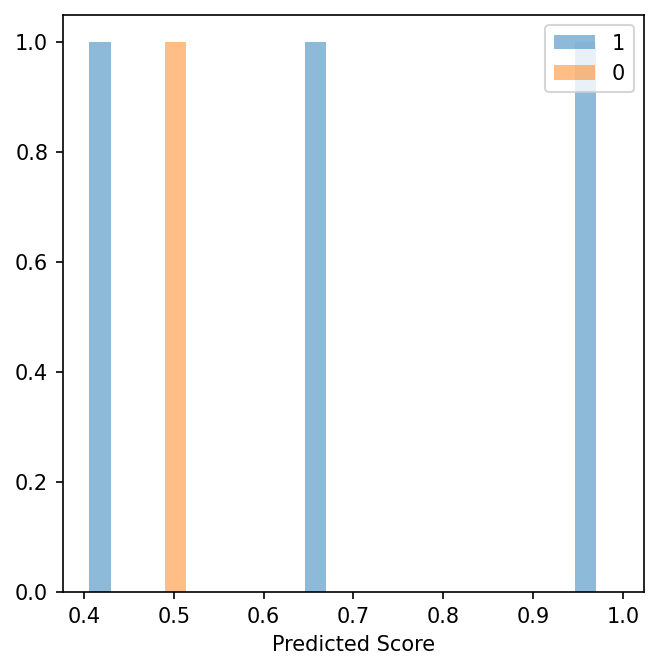
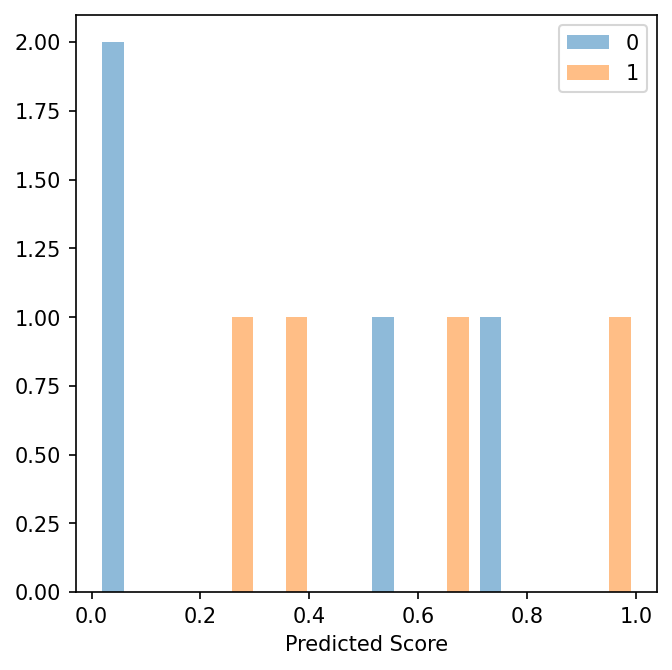
changes from IE-DL

diff --git a/hi-ml-histopathology/src/histopathology/models/deepmil.py b/hi-ml-histopathology/src/histopathology/models/deepmil.py
@@ -13,7 +13,7 @@ import matplotlib.pyplot as plt
 import more_itertools as mi
 
 from pytorch_lightning import LightningModule
-from torch import Tensor, argmax, mode, nn, no_grad, optim, round
+from torch import Tensor, argmax, mode, nn, set_grad_enabled, optim, round
 from torchmetrics import AUROC, F1, Accuracy, Precision, Recall, ConfusionMatrix
 
 from health_azure.utils import is_global_rank_zero
@@ -29,7 +29,7 @@ from histopathology.utils.viz_utils import load_image_dict
 
 
 RESULTS_COLS = [ResultsKey.SLIDE_ID, ResultsKey.TILE_ID, ResultsKey.IMAGE_PATH, ResultsKey.PROB,
-                ResultsKey.PRED_LABEL, ResultsKey.TRUE_LABEL, ResultsKey.BAG_ATTN]
+                ResultsKey.CLASS_PROBS, ResultsKey.PRED_LABEL, ResultsKey.TRUE_LABEL, ResultsKey.BAG_ATTN]
 
 
 def _format_cuda_memory_stats() -> str:
@@ -48,6 +48,7 @@ class DeepMILModule(LightningModule):
                  pooling_layer: Callable[[int, int, int], nn.Module],
                  pool_hidden_dim: int = 128,
                  pool_out_dim: int = 1,
+                 dropout_rate: Optional[float] = None,
                  class_weights: Optional[Tensor] = None,
                  l_rate: float = 5e-4,
                  weight_decay: float = 1e-4,
@@ -56,7 +57,8 @@ class DeepMILModule(LightningModule):
                  slide_dataset: SlidesDataset = None,
                  tile_size: int = 224,
                  level: int = 1,
-                 class_names: Optional[List[str]] = None) -> None:
+                 class_names: Optional[List[str]] = None,
+                 is_finetune: bool = False) -> None:
         """
         :param label_column: Label key for input batch dictionary.
         :param n_classes: Number of output classes for MIL prediction. For binary classification, n_classes
@@ -67,6 +69,7 @@ class DeepMILModule(LightningModule):
         `torch.nn.Module` constructor accepting input, hidden, and output pooling `int` dimensions.
         :param pool_hidden_dim: Hidden dimension of pooling layer (default=128).
         :param pool_out_dim: Output dimension of pooling layer (default=1).
+        :param dropout_rate: Rate of pre-classifier dropout (0-1). `None` for no dropout (default).
         :param class_weights: Tensor containing class weights (default=None).
         :param l_rate: Optimiser learning rate.
         :param weight_decay: Weight decay parameter for L2 regularisation.
@@ -76,6 +79,7 @@ class DeepMILModule(LightningModule):
         :param tile_size: The size of each tile (default=224).
         :param level: The downsampling level (e.g. 0, 1, 2) of the tiles if available (default=1).
         :param class_names: The names of the classes if available (default=None).
+        :param is_finetune: Boolean value to enable/disable finetuning (default=False).
         """
         super().__init__()
 
@@ -85,6 +89,7 @@ class DeepMILModule(LightningModule):
         self.pool_hidden_dim = pool_hidden_dim
         self.pool_out_dim = pool_out_dim
         self.pooling_layer = pooling_layer
+        self.dropout_rate = dropout_rate
         self.class_weights = class_weights
         self.encoder = encoder
         self.num_encoding = self.encoder.num_encoding
@@ -117,6 +122,9 @@ class DeepMILModule(LightningModule):
 
         self.verbose = verbose
 
+        # Finetuning attributes
+        self.is_finetune = is_finetune
+
         self.aggregation_fn, self.num_pooling = self.get_pooling()
         self.classifier_fn = self.get_classifier()
         self.loss_fn = self.get_loss()
@@ -135,8 +143,14 @@ class DeepMILModule(LightningModule):
         return pooling_layer, num_features
 
     def get_classifier(self) -> Callable:
-        return nn.Linear(in_features=self.num_pooling,
-                         out_features=self.n_classes)
+        classifier_layer = nn.Linear(in_features=self.num_pooling,
+                                     out_features=self.n_classes)
+        if self.dropout_rate is None:
+            return classifier_layer
+        elif 0 <= self.dropout_rate < 1:
+            return nn.Sequential(nn.Dropout(self.dropout_rate), classifier_layer)
+        else:
+            raise ValueError(f"Dropout rate should be in [0, 1), got {self.dropout_rate}")
 
     def get_loss(self) -> Callable:
         if self.n_classes > 1:
@@ -192,13 +206,13 @@ class DeepMILModule(LightningModule):
             else:
                 log_on_epoch(self, f'{stage}/{metric_name}', metric_object)
 
-    def forward(self, images: Tensor) -> Tuple[Tensor, Tensor]:  # type: ignore
-        with no_grad():
-            H = self.encoder(images)                        # N X L x 1 x 1
-        A, M = self.aggregation_fn(H)                       # A: K x N | M: K x L
-        M = M.view(-1, self.num_encoding * self.pool_out_dim)
-        Y_prob = self.classifier_fn(M)
-        return Y_prob, A
+    def forward(self, instances: Tensor) -> Tuple[Tensor, Tensor]:  # type: ignore
+        with set_grad_enabled(self.is_finetune):
+            instance_features = self.encoder(instances)                    # N X L x 1 x 1
+        attentions, bag_features = self.aggregation_fn(instance_features)  # K x N | K x L
+        bag_features = bag_features.view(1, -1)
+        bag_logit = self.classifier_fn(bag_features)
+        return bag_logit, attentions
 
     def configure_optimizers(self) -> optim.Optimizer:
         return optim.Adam(self.parameters(), lr=self.l_rate, weight_decay=self.weight_decay,
@@ -233,21 +247,28 @@ class DeepMILModule(LightningModule):
         predicted_probs = self.activation_fn(bag_logits)
         if self.n_classes > 1:
             predicted_labels = argmax(predicted_probs, dim=1)
+            probs_perclass = predicted_probs
         else:
             predicted_labels = round(predicted_probs)
+            probs_perclass = Tensor([[1.0 - predicted_probs[i][0].item(), predicted_probs[i][0].item()] for i in range(len(predicted_probs))])
 
         loss = loss.view(-1, 1)
         predicted_labels = predicted_labels.view(-1, 1)
-        predicted_probs = predicted_probs.view(-1, 1)
+        if self.n_classes == 1:
+            predicted_probs = predicted_probs.view(-1, 1)                                                                               
         bag_labels = bag_labels.view(-1, 1)
 
         results = dict()
         for metric_object in self.get_metrics_dict(stage).values():
-            metric_object.update(predicted_probs, bag_labels)
+            if self.n_classes > 1:
+                metric_object.update(predicted_probs, bag_labels.squeeze())
+            else:
+                metric_object.update(predicted_probs, bag_labels)
         results.update({ResultsKey.SLIDE_ID: batch[TilesDataset.SLIDE_ID_COLUMN],
                         ResultsKey.TILE_ID: batch[TilesDataset.TILE_ID_COLUMN],
                         ResultsKey.IMAGE_PATH: batch[TilesDataset.PATH_COLUMN], ResultsKey.LOSS: loss,
-                        ResultsKey.PROB: predicted_probs, ResultsKey.PRED_LABEL: predicted_labels,
+                        ResultsKey.PROB: predicted_probs, ResultsKey.CLASS_PROBS: probs_perclass, 
+                        ResultsKey.PRED_LABEL: predicted_labels,
                         ResultsKey.TRUE_LABEL: bag_labels, ResultsKey.BAG_ATTN: bag_attn_list,
                         ResultsKey.IMAGE: batch[TilesDataset.IMAGE_COLUMN]})
 
@@ -326,22 +347,28 @@ class DeepMILModule(LightningModule):
             slide_dict = self.normalize_dict_for_df(slide_dict, use_gpu=False)
             df_list.append(pd.DataFrame.from_dict(slide_dict))
         df = pd.concat(df_list, ignore_index=True)
-        df.to_csv(csv_filename, mode='w+', header=True)
+        df.to_csv(csv_filename, mode='w', header=True)
 
         # Collect all features in a list and save
         features_list = self.move_list_to_device(list_encoded_features, use_gpu=False)
         torch.save(features_list, encoded_features_filename)
 
         print("Selecting tiles ...")
-        fn_top_tiles = select_k_tiles(results, n_slides=10, label=1, n_tiles=10,
-                                      select=('lowest_pred', 'highest_att'))
-        fn_bottom_tiles = select_k_tiles(results, n_slides=10, label=1, n_tiles=10,
-                                         select=('lowest_pred', 'lowest_att'))
-        tp_top_tiles = select_k_tiles(results, n_slides=10, label=1, n_tiles=10,
-                                      select=('highest_pred', 'highest_att'))
-        tp_bottom_tiles = select_k_tiles(results, n_slides=10, label=1, n_tiles=10,
-                                         select=('highest_pred', 'lowest_att'))
-        report_cases = {'TP': [tp_top_tiles, tp_bottom_tiles], 'FN': [fn_top_tiles, fn_bottom_tiles]}
+        # Class 0
+        tn_top_tiles = select_k_tiles(results, n_slides=10, label=0, n_tiles=10, select=('highest_pred', 'highest_att'))
+        tn_bottom_tiles = select_k_tiles(results, n_slides=10, label=0, n_tiles=10, select=('highest_pred', 'lowest_att'))
+        fp_top_tiles = select_k_tiles(results, n_slides=10, label=0, n_tiles=10, select=('lowest_pred', 'highest_att'))
+        fp_bottom_tiles = select_k_tiles(results, n_slides=10, label=0, n_tiles=10, select=('lowest_pred', 'lowest_att'))
+        report_cases = {'TN': [tn_top_tiles, tn_bottom_tiles], 'FP': [fp_top_tiles, fp_bottom_tiles]}
+
+        # Class 1 to n_classes-1
+        n_classes_to_select = self.n_classes if self.n_classes > 1 else 2
+        for i in range(1, n_classes_to_select):
+            fn_top_tiles = select_k_tiles(results, n_slides=10, label=i, n_tiles=10, select=('lowest_pred', 'highest_att'))
+            fn_bottom_tiles = select_k_tiles(results, n_slides=10, label=i, n_tiles=10, select=('lowest_pred', 'lowest_att'))
+            tp_top_tiles = select_k_tiles(results, n_slides=10, label=i, n_tiles=10, select=('highest_pred', 'highest_att'))
+            tp_bottom_tiles = select_k_tiles(results, n_slides=10, label=i, n_tiles=10, select=('highest_pred', 'lowest_att'))
+            report_cases.update({'TP_'+str(i): [tp_top_tiles, tp_bottom_tiles], 'FN_'+str(i): [fn_top_tiles, fn_bottom_tiles]})
 
         for key in report_cases.keys():
             print(f"Plotting {key} (tiles, thumbnails, attention heatmaps)...")
@@ -398,13 +425,19 @@ class DeepMILModule(LightningModule):
         # these steps are required to convert the dictionary to pandas dataframe.
         device = 'cuda' if use_gpu else 'cpu'
         dict_new = dict()
+        bag_size = len(dict_old[ResultsKey.SLIDE_ID])
         for key, value in dict_old.items():
-            if isinstance(value, Tensor):
-                value = value.squeeze(0).to(device).numpy()
-                if value.ndim == 0:
-                    bag_size = len(dict_old[ResultsKey.SLIDE_ID])
-                    value = np.full(bag_size, fill_value=value)
-            dict_new[key] = value
+            if key not in [ResultsKey.CLASS_PROBS, ResultsKey.PROB]:
+                if isinstance(value, Tensor):
+                    value = value.squeeze(0).to(device).numpy()
+                    if value.ndim == 0:                                    
+                        value = np.full(bag_size, fill_value=value)
+                dict_new[key] = value
+            elif key == ResultsKey.CLASS_PROBS:
+                if isinstance(value, Tensor):
+                    value = value.squeeze(0).to(device).numpy()
+                    for i in range(len(value)):
+                        dict_new[key+str(i)] = np.repeat(value[i], bag_size)
         return dict_new
 
     @staticmethod

diff --git a/hi-ml-histopathology/testhisto/testhisto/utils/test_metrics_utils.py b/hi-ml-histopathology/testhisto/testhisto/utils/test_metrics_utils.py
@@ -44,6 +44,9 @@ def assert_equal_lists(pred: List, expected: List) -> None:
         for j, value in enumerate(slide):
             if type(value) in [int, float]:
                 assert math.isclose(value, expected[i][j], rel_tol=1e-06)
+            elif (type(value) == Tensor) and (value.ndim >= 1):
+                for k, idx in enumerate(value):
+                    assert math.isclose(idx, expected[i][j][k], rel_tol=1e-06)
             elif isinstance(value, List):
                 for k, idx in enumerate(value):
                     if type(idx) in [int, float]:
@@ -54,15 +57,20 @@ def assert_equal_lists(pred: List, expected: List) -> None:
                 raise TypeError("Unexpected list composition")
 
 
-test_dict = {ResultsKey.SLIDE_ID: [[1, 1, 1, 1], [2, 2, 2, 2], [3, 3, 3, 3], [4, 4, 4, 4]],
-             ResultsKey.IMAGE_PATH: [[1, 2, 3, 4], [1, 2, 3, 4], [1, 2, 3, 4], [1, 2, 3, 4]],
-             ResultsKey.PROB: [Tensor([0.5]), Tensor([0.7]), Tensor([0.4]), Tensor([1.0])],
-             ResultsKey.TRUE_LABEL: [0, 1, 1, 1],
+test_dict = {ResultsKey.SLIDE_ID: [[1, 1, 1, 1], [2, 2, 2, 2], [3, 3, 3, 3], [4, 4, 4, 4], [5, 5, 5, 5], [6, 6, 6, 6], [7, 7, 7, 7], [8, 8, 8, 8]],
+             ResultsKey.IMAGE_PATH: [[1, 2, 3, 4], [1, 2, 3, 4], [1, 2, 3, 4], [1, 2, 3, 4], [1, 2, 3, 4], [1, 2, 3, 4], [1, 2, 3, 4], [1, 2, 3, 4]],
+             ResultsKey.CLASS_PROBS: [Tensor([0.6, 0.4]), Tensor([0.3, 0.7]), Tensor([0.6, 0.4]), Tensor([0.0, 1.0]),
+                               Tensor([0.7, 0.3]), Tensor([0.8, 0.2]), Tensor([0.1, 0.9]), Tensor([0.01, 0.99])],
+             ResultsKey.TRUE_LABEL: [0, 1, 1, 1, 1, 0, 0, 0],
              ResultsKey.BAG_ATTN:
-                 [Tensor([[0.1, 0.0, 0.2, 0.15]]),
+                 [Tensor([[0.10, 0.00, 0.20, 0.15]]),
                   Tensor([[0.10, 0.18, 0.15, 0.13]]),
                   Tensor([[0.25, 0.23, 0.20, 0.21]]),
-                  Tensor([[0.33, 0.31, 0.37, 0.35]])],
+                  Tensor([[0.33, 0.31, 0.37, 0.35]]),
+                  Tensor([[0.43, 0.01, 0.07, 0.25]]),
+                  Tensor([[0.53, 0.11, 0.17, 0.55]]),
+                  Tensor([[0.63, 0.21, 0.27, 0.05]]),
+                  Tensor([[0.73, 0.31, 0.37, 0.15]])],
              ResultsKey.TILE_X:
                  [Tensor([200, 200, 424, 424]),
                   Tensor([200, 200, 424, 424]),
@@ -78,27 +86,40 @@ test_dict = {ResultsKey.SLIDE_ID: [[1, 1, 1, 1], [2, 2, 2, 2], [3, 3, 3, 3], [4,
 
 @pytest.mark.fast
 def test_select_k_tiles() -> None:
-    top_tn = select_k_tiles(test_dict, n_slides=1, label=0, n_tiles=2, select=('lowest_pred', 'highest_att'))
-    assert_equal_lists(top_tn, [(1, 0.5, [3, 4], [Tensor([0.2]), Tensor([0.15])])])
-
     nslides = 2
     ntiles = 2
-    top_fn = select_k_tiles(test_dict, n_slides=nslides, label=1, n_tiles=ntiles, select=('lowest_pred', 'highest_att'))
-    bottom_fn = select_k_tiles(test_dict, n_slides=nslides, label=1, n_tiles=ntiles,
-                               select=('lowest_pred', 'lowest_att'))
-    assert_equal_lists(top_fn, [(3, 0.4, [1, 2], [Tensor([0.25]), Tensor([0.23])]),
-                                (2, 0.7, [2, 3], [Tensor([0.18]), Tensor([0.15])])])
-    assert_equal_lists(bottom_fn, [(3, 0.4, [3, 4], [Tensor([0.20]), Tensor([0.21])]),
-                                   (2, 0.7, [1, 4], [Tensor([0.10]), Tensor([0.13])])])
+    # TP
+    top_tp = select_k_tiles(test_dict, n_slides=nslides, label=1, n_tiles=ntiles, select=('highest_pred', 'highest_att'))
+    bottom_tp = select_k_tiles(test_dict, n_slides=nslides, label=1, n_tiles=ntiles, select=('highest_pred', 'lowest_att'))
+    print(top_tp)
+    assert_equal_lists(top_tp, [(4, Tensor([0.0, 1.0]), [3, 4], [Tensor([0.37]), Tensor([0.35])]),
+                                (2, Tensor([0.3, 0.7]), [2, 3], [Tensor([0.18]), Tensor([0.15])])])
+    assert_equal_lists(bottom_tp, [(4, Tensor([0.0, 1.0]), [2, 1], [Tensor([0.31]), Tensor([0.33])]),
+                                   (2, Tensor([0.3, 0.7]), [1, 4], [Tensor([0.10]), Tensor([0.13])])])
 
-    top_tp = select_k_tiles(test_dict, n_slides=nslides, label=1, n_tiles=ntiles,
-                            select=('highest_pred', 'highest_att'))
-    bottom_tp = select_k_tiles(test_dict, n_slides=nslides, label=1, n_tiles=ntiles,
-                               select=('highest_pred', 'lowest_att'))
-    assert_equal_lists(top_tp, [(4, 1.0, [3, 4], [Tensor([0.37]), Tensor([0.35])]),
-                                (2, 0.7, [2, 3], [Tensor([0.18]), Tensor([0.15])])])
-    assert_equal_lists(bottom_tp, [(4, 1.0, [2, 1], [Tensor([0.31]), Tensor([0.33])]),
-                                   (2, 0.7, [1, 4], [Tensor([0.10]), Tensor([0.13])])])
+    # FN
+    top_fn = select_k_tiles(test_dict, n_slides=nslides, label=1, n_tiles=ntiles, select=('lowest_pred', 'highest_att'))
+    bottom_fn = select_k_tiles(test_dict, n_slides=nslides, label=1, n_tiles=ntiles, select=('lowest_pred', 'lowest_att'))
+    assert_equal_lists(top_fn, [(5, Tensor([0.7, 0.3]), [1, 4], [Tensor([0.43]), Tensor([0.25])]),
+                                (3, Tensor([0.6, 0.4]), [1, 2], [Tensor([0.25]), Tensor([0.23])])])
+    assert_equal_lists(bottom_fn, [(5, Tensor([0.7, 0.3]), [2, 3], [Tensor([0.01]), Tensor([0.07])]),
+                                   (3, Tensor([0.6, 0.4]), [3, 4], [Tensor([0.20]), Tensor([0.21])])])
+
+    # TN
+    top_tn = select_k_tiles(test_dict, n_slides=nslides, label=0, n_tiles=ntiles, select=('highest_pred', 'highest_att'))
+    bottom_tn = select_k_tiles(test_dict, n_slides=nslides, label=0, n_tiles=ntiles, select=('highest_pred', 'lowest_att'))
+    assert_equal_lists(top_tn, [(6, Tensor([0.8, 0.2]), [4, 1], [Tensor([0.55]), Tensor([0.53])]),
+                                (1, Tensor([0.6, 0.4]), [3, 4], [Tensor([0.2]), Tensor([0.15])])])
+    assert_equal_lists(bottom_tn, [(6, Tensor([0.8, 0.2]), [2, 3], [Tensor([0.11]), Tensor([0.17])]),
+                                  (1, Tensor([0.6, 0.4]), [2, 1], [Tensor([0.00]), Tensor([0.10])])])
+
+    # FP
+    top_fp = select_k_tiles(test_dict, n_slides=nslides, label=0, n_tiles=ntiles, select=('lowest_pred', 'highest_att'))
+    bottom_fp = select_k_tiles(test_dict, n_slides=nslides, label=0, n_tiles=ntiles, select=('lowest_pred', 'lowest_att'))
+    assert_equal_lists(top_fp, [(8, Tensor([0.01, 0.99]), [1, 3], [Tensor([0.73]), Tensor([0.37])]),
+                                (7, Tensor([0.1, 0.9]), [1, 3], [Tensor([0.63]), Tensor([0.27])])])
+    assert_equal_lists(bottom_fp, [(8, Tensor([0.01, 0.99]), [4, 2], [Tensor([0.15]), Tensor([0.31])]),
+                                  (7, Tensor([0.1, 0.9]), [4, 2], [Tensor([0.05]), Tensor([0.21])])])
 
 
 @pytest.mark.fast

diff --git a/hi-ml-histopathology/src/histopathology/utils/metrics_utils.py b/hi-ml-histopathology/src/histopathology/utils/metrics_utils.py
@@ -19,7 +19,7 @@ from histopathology.utils.heatmap_utils import location_selected_tiles
 def select_k_tiles(results: Dict, n_tiles: int = 5, n_slides: int = 5, label: int = 1,
                    select: Tuple = ('lowest_pred', 'highest_att'),
                    slide_col: str = ResultsKey.SLIDE_ID, gt_col: str = ResultsKey.TRUE_LABEL,
-                   attn_col: str = ResultsKey.BAG_ATTN, prob_col: str = ResultsKey.PROB,
+                   attn_col: str = ResultsKey.BAG_ATTN, prob_col: str = ResultsKey.CLASS_PROBS,
                    return_col: str = ResultsKey.IMAGE_PATH) -> List[Tuple[Any, Any, List[Any], List[Any]]]:
     """
     :param results: List that contains slide_level dicts
@@ -34,7 +34,7 @@ def select_k_tiles(results: Dict, n_tiles: int = 5, n_slides: int = 5, label: in
     :param return_col: column name of the values we want to return for each tile
     :return: tuple containing the slides id, the slide score, the tile ids, the tiles scores
     """
-    tmp_s = [(results[prob_col][i], i) for i, gt in enumerate(results[gt_col]) if gt == label]  # type ignore
+    tmp_s = [(results[prob_col][i][label], i) for i, gt in enumerate(results[gt_col]) if gt == label]  # type ignore
     if select[0] == 'lowest_pred':
         tmp_s.sort(reverse=False)
     elif select[0] == 'highest_pred':
@@ -57,12 +57,12 @@ def select_k_tiles(results: Dict, n_tiles: int = 5, n_slides: int = 5, label: in
             scores.append(results[attn_col][slide_idx][0][t_idx])
         # slide_ids are duplicated
         k_idx.append((results[slide_col][slide_idx][0],
-                      results[prob_col][slide_idx].item(),
+                      results[prob_col][slide_idx],
                       k_tiles, scores))
     return k_idx
 
 
-def plot_scores_hist(results: Dict, prob_col: str = ResultsKey.PROB,
+def plot_scores_hist(results: Dict, prob_col: str = ResultsKey.CLASS_PROBS,
                      gt_col: str = ResultsKey.TRUE_LABEL) -> plt.figure:
     """
     :param results: List that contains slide_level dicts
@@ -70,20 +70,23 @@ def plot_scores_hist(results: Dict, prob_col: str = ResultsKey.PROB,
     :param gt_col: column name that contains the true label
     :return: matplotlib figure of the scores histogram by class
     """
-    pos_scores = [results[prob_col][i][0].cpu().item() for i, gt in enumerate(results[gt_col]) if gt == 1]
-    neg_scores = [results[prob_col][i][0].cpu().item() for i, gt in enumerate(results[gt_col]) if gt == 0]
-    fig, ax = plt.subplots()
-    ax.hist([pos_scores, neg_scores], label=['1', '0'], alpha=0.5)
+    n_classes = len(results[prob_col][0])
+    scores_class = []
+    for j in range(n_classes):
+        scores = [results[prob_col][i][j].cpu().item() for i, gt in enumerate(results[gt_col]) if gt == j]
+        scores_class.append(scores)
+    fig, ax = plt.subplots() 
+    ax.hist(scores_class, label=[str(i) for i in range(n_classes)], alpha=0.5)
     ax.set_xlabel("Predicted Score")
     ax.legend()
     return fig
 
 
-def plot_attention_tiles(slide: str, score: float, paths: List, attn: List, case: str, ncols: int = 5,
-                         size: Tuple = (10, 10)) -> plt.figure:
+def plot_attention_tiles(slide: str, scores: List[float], paths: List, attn: List, case: str, ncols: int = 5,
+                    size: Tuple = (10, 10)) -> plt.figure:
     """
     :param slide: slide identifier
-    :param score: predicted score for the slide
+    :param scores: predicted scores of each class for the slide
     :param paths: list of paths to tiles belonging to the slide
     :param attn: list of scores belonging to the tiles in paths. paths and attn are expected to have the same shape
     :param case: string used to define the title of the plot e.g. TP
@@ -93,7 +96,7 @@ def plot_attention_tiles(slide: str, score: float, paths: List, attn: List, case
     """
     nrows = int(ceil(len(paths) / ncols))
     fig, axs = plt.subplots(nrows=nrows, ncols=ncols, figsize=size)
-    fig.suptitle(f"{case}: {slide} P=%.2f" % score)
+    fig.suptitle(f"{case}: {slide} P=%.2f" % max(scores))
     for i in range(len(paths)):
         img = load_pil_image(paths[i])
         axs.ravel()[i].imshow(img, clim=(0, 255), cmap='gray')

diff --git a/hi-ml-histopathology/src/histopathology/utils/naming.py b/hi-ml-histopathology/src/histopathology/utils/naming.py
@@ -48,6 +48,7 @@ class ResultsKey(str, Enum):
     IMAGE_PATH = 'image_path'
     LOSS = 'loss'
     PROB = 'prob'
+    CLASS_PROBS = 'prob_class'
     PRED_LABEL = 'pred_label'
     TRUE_LABEL = 'true_label'
     BAG_ATTN = 'bag_attn'
